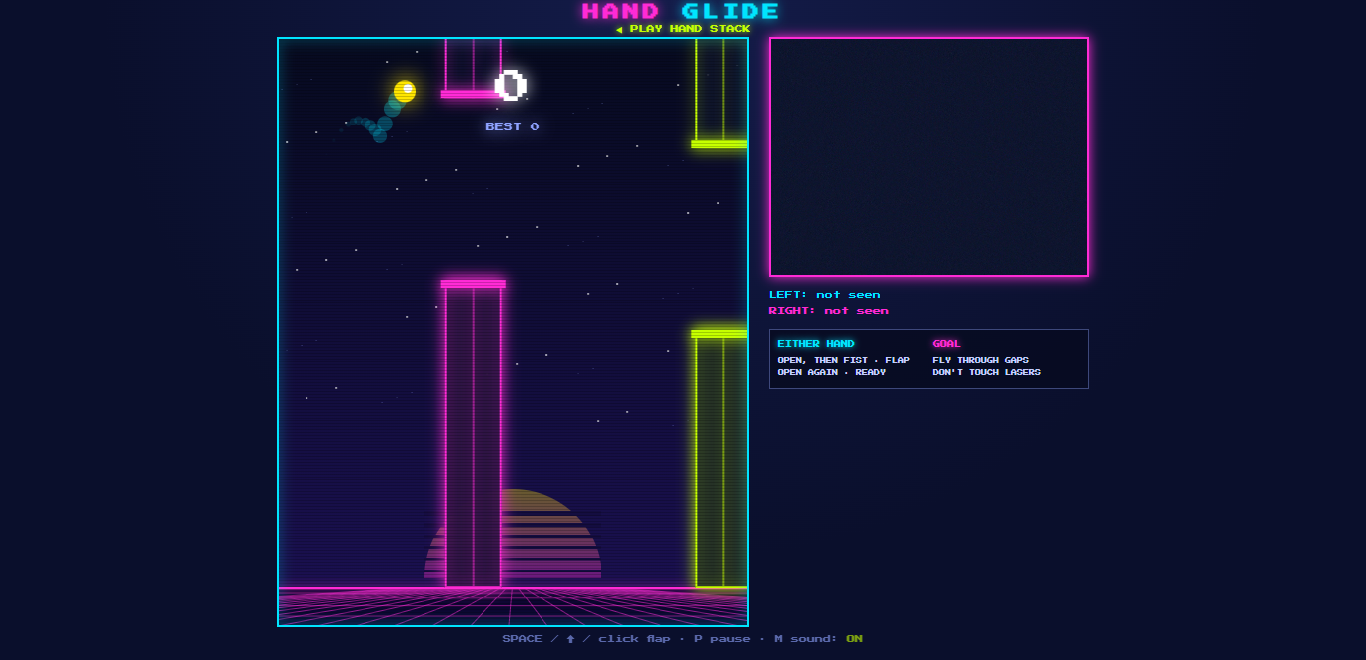
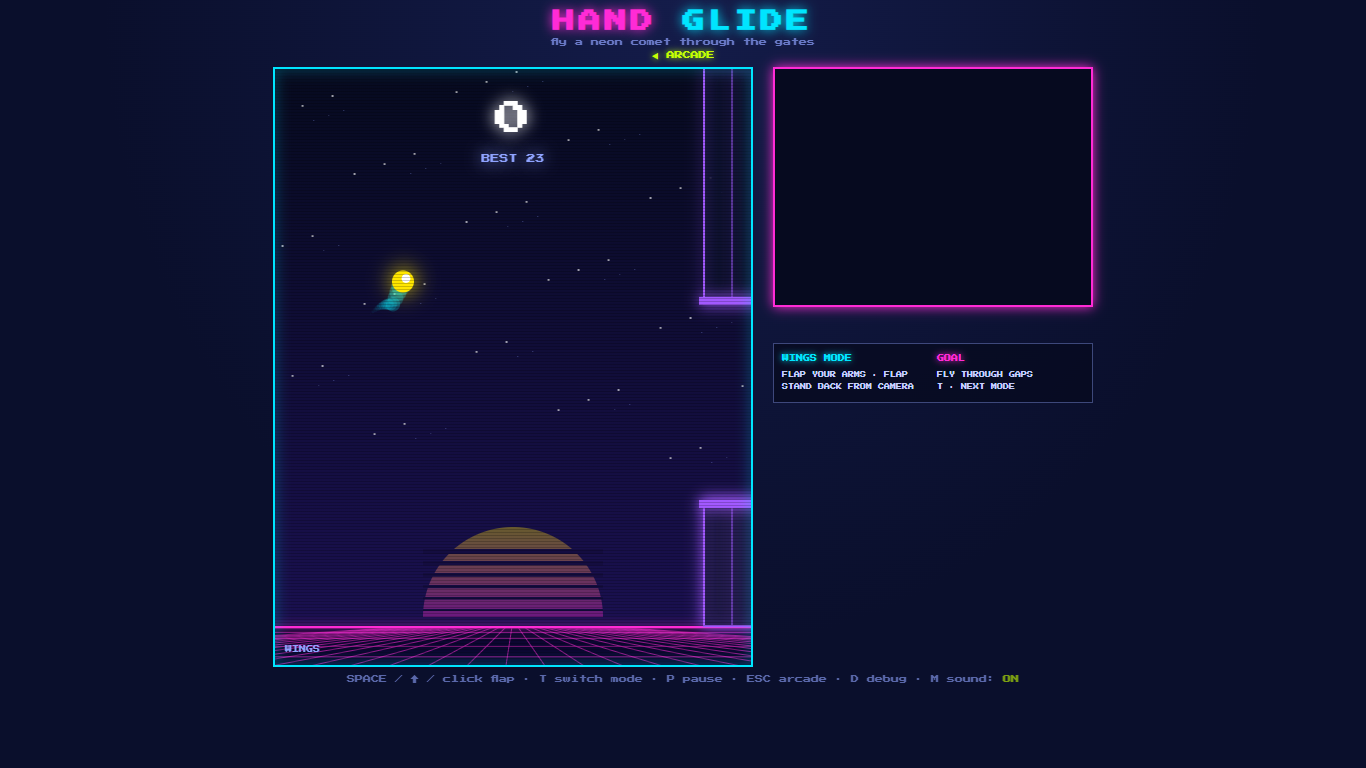
README: rewrite as a Hand Arcade overview of three equal games
Lobby, Hand Stack, Hand Glide and Hand Whack each get their own section
with screenshots, a gameplay GIF or video, controls and scoring. New
lobby GIF, fresh Stack/Glide screenshots, and Whack screenshots + GIF.
Architecture table, gesture notes and tuning cover all three games.

diff --git a/README.md b/README.md
@@ -1,75 +1,54 @@
 <div align="center">
 
-# ✋ HAND STACK ✋
+# 🕹 HAND ARCADE 🕹
 
-**A neon falling-block puzzle you play with your bare hands.**
+**A neon arcade where your hands are the controller.**
 
-*An arcade idea from the 1980s, rebuilt for 2026 with real-time hand tracking in the browser.*
+*Three retro games, one webcam, no controllers. Hand tracking runs live in the browser.*
 
 ![JavaScript](https://img.shields.io/badge/JavaScript-vanilla-f7df1e?style=flat-square&logo=javascript&logoColor=black)
 ![Vite](https://img.shields.io/badge/Vite-8-646cff?style=flat-square&logo=vite&logoColor=white)
-![MediaPipe](https://img.shields.io/badge/MediaPipe-Hand_Landmarker-0097a7?style=flat-square)
+![MediaPipe](https://img.shields.io/badge/MediaPipe-Hands_+_Pose-0097a7?style=flat-square)
 ![Web Audio](https://img.shields.io/badge/Web_Audio-synthesised-ff2bd6?style=flat-square)
 ![No frameworks](https://img.shields.io/badge/frameworks-none-00e5ff?style=flat-square)
 
 **Retro Remix track · KCL Tech First Year Hack · built with JetBrains Air**
 
-🕹 **Now part of HAND ARCADE:** open the site and you walk into a neon arcade with two cabinets, **Hand Stack** and **[Hand Glide](#-bonus-game-hand-glide)**. Point at a cabinet and hold a fist to play (or click, or use ←/→ and Enter). Esc in either game takes you back to the arcade.
+<img src="docs/media/arcade-lobby.gif" alt="The Hand Arcade lobby: three neon cabinets (Hand Stack, Hand Glide, Hand Whack) with live attract-mode screens; one is chosen and the view zooms into it" width="800">
 
-<img src="docs/media/hands-demo.gif" alt="A player controlling Hand Stack with both hands: cyan skeleton on the left hand picks the column band, pink skeleton on the right hand acts" width="720">
-
-*Real hand-tracking gameplay: the left hand (cyan) picks the column, the right hand (pink) rotates, holds and slams.*
-
-[▶ Watch the full hand-tracking clip (40 s)](docs/media/human_game.mp4) · [▶ Hand Glide demo](docs/media/glide_demo.mp4) · [Quick start](#-quick-start) · [Controls](#-controls) · [Bonus: Hand Glide](#-bonus-game-hand-glide) · [How it works](#-how-it-works)
+[Quick start](#-quick-start) · [The arcade](#-the-arcade) · [🧱 Hand Stack](#-hand-stack) · [🌠 Hand Glide](#-hand-glide) · [🔨 Hand Whack](#-hand-whack) · [How it works](#-how-it-works)
 
 </div>
 
 ---
 
-## 🕹 What is it?
+## ✋ What is it?
 
-Hand Stack is a falling-block puzzle in its own neon arcade style, but there's **no controller**. Your webcam watches both hands:
+Hand Arcade is a virtual arcade room with three cabinets. Each one is a complete game, and each is played with your body in front of a webcam rather than a keyboard or controller:
 
-- your **left hand** steers the falling piece across the board and drops it faster
-- your **right hand** rotates it, slams it down and puts it on hold
+| | Game | Genre | You play it by… |
+|---|---|---|---|
+| 🧱 | **[Hand Stack](#-hand-stack)** | Falling-block puzzle | steering with your left hand, rotating, holding and slamming with your right |
+| 🌠 | **[Hand Glide](#-hand-glide)** | Neon flyer | flapping your arms like wings (or squeezing / steering with a hand) |
+| 🔨 | **[Hand Whack](#-hand-whack)** | Whack-a-mole | aiming with your palms and squeezing to bring the hammer down |
 
-Hand tracking runs **entirely in the browser** with Google's MediaPipe. Nothing gets installed, and no video ever leaves your machine. If there's no camera, the whole game still plays on the keyboard.
+Everything runs **in the browser**. Nothing is installed, and no video ever leaves your machine. Every game also works with the keyboard and mouse if there's no camera.
 
-### Features
+### Shared features
 
-- 🖐 **Two-handed gesture control:** six gestures across two hands, with live skeleton overlays (cyan = move hand, pink = action hand)
-- 🎯 **Column bands:** ten numbered bands on the camera view map your palm straight onto the board, with hysteresis so the piece doesn't jitter between columns
-- 🔁 **Self-calibrating wrist twist:** whatever angle you hold your hand at becomes "neutral", with a live dial gauge
-- 👌 **Robust pinch detection** that can't be confused with a fist
-- 🧩 **Proper puzzle rules:** 7-bag randomiser, wall kicks in both directions, ghost piece, hold, 3-piece preview, levels and speed-up
-- 🎵 **Synthesised audio:** an original chiptune loop that speeds up each level, plus sound effects, all generated with the Web Audio API (no audio files)
-- 🛠 **Live debug panel (D):** every gesture value next to its threshold, plus the tracker's frame rate
-- ♿ **Left-handed mode (S)** and a **full keyboard fallback**
+- 🖐 **Live skeleton overlays** on the camera view, so you can always see what the tracker sees
+- 🏠 **Hands-free navigation:** choose a game in the lobby with a fist, and use big hover buttons (**◀ ARCADE** / **PLAY ▶**) on every start, pause and game-over screen
+- 🎵 **Synthesised audio:** an original chiptune loop plus sound effects, generated with the Web Audio API (no audio files)
+- 🏆 **Best scores** saved in your browser and shown on each cabinet
+- 🛠 **Debug panel (D)** in every game: each live gesture value next to its threshold
+- ⚡ **60 fps:** hand and pose tracking run in a background Web Worker, so the games never stutter
 - 💻 Fits a 1366×768 laptop screen
-
----
-
-## 📸 Screenshots
-
-| Start screen and gesture guide | Mid-game |
-|---|---|
-| <img src="docs/media/start-screen.png" alt="Start screen with illustrated guide to the six gestures"> | <img src="docs/media/gameplay.png" alt="Gameplay: board with ghost piece and SLAM flash, hold and next previews, score panel, camera view with column bands and controls reminder"> |
-
-| Debug panel (press D) |
-|---|
-| <img src="docs/media/debug-panel.png" alt="Debug panel listing every live gesture value next to its threshold, and the tracker running on GPU at 47 fps"> |
-
-| Keyboard demo (scripted, 11 s) |
-|---|
-| <img src="docs/media/demo.gif" alt="Hand Stack keyboard gameplay: pieces fall, line clears flash SINGLE, hold and next previews update" width="720"> |
-
-> **About these captures:** the screenshots above, the keyboard demo and its [full 42 s clip](docs/media/gameplay.mp4) were recorded in headless Chrome. The game was driven by scripted **keyboard** input, and the camera was a blank synthetic feed. That's why their camera panels show no hands. The GIF at the top and the [hand-tracking clip](docs/media/human_game.mp4) are real webcam play.
 
 ---
 
 ## 🚀 Quick start
 
-You need [Node.js](https://nodejs.org/) 20+, a webcam and an internet connection. The hand-tracking model loads from a CDN.
+You need [Node.js](https://nodejs.org/) 20+, a webcam and an internet connection (the tracking models load from a CDN).
 
 ```bash
 git clone https://github.com/Neev-Dhall/KCL-Hack.git
@@ -78,18 +57,55 @@ npm install
 npm run dev
 ```
 
-Open the URL Vite prints (usually **http://localhost:5173**) in **Google Chrome** and allow camera access. That's the arcade lobby: hold a fist over the Hand Stack cabinet (or click it). Hand Stack itself is at `/stack.html` and Hand Glide at `/glide.html`. In Hand Stack, **make a fist with your right hand** or press **Enter** to start.
+Open the URL Vite prints (usually **http://localhost:5173**) in **Google Chrome** and allow camera access. You'll land in the arcade.
 
-> 🔊 Sound and music start after your first click or key press, because browsers block audio until then.
-> 📷 If the camera is blocked, the game says so and carries on with the keyboard.
+To build a static site: `npm run build` writes everything to `dist/`, which works from any folder (for example GitHub Pages).
+
+> 📷 If the camera is blocked, each page says so and carries on with keyboard and mouse.
 
 ---
 
-## 🎮 Controls
+## 🏠 The arcade
 
-Left hand = **MOVE** hand (cyan). Right hand = **ACTION** hand (pink). Press **S** to swap them for left-handers.
+<img src="docs/media/arcade-lobby.png" alt="Hand Arcade lobby with three cabinets on a neon floor grid, each showing its best score" width="800">
 
-### Hands
+The lobby is a dark arcade room with a flickering marquee and three cabinets. Each cabinet screen loops a little attract-mode demo of its game and shows your best score.
+
+| To… | Hands | Keyboard / mouse |
+|---|---|---|
+| Choose a cabinet | Move your palm; a glowing cursor follows it | ← / → or hover |
+| Play it | Make a fist and hold it until the ring fills (0.6 s) | Enter or click |
+| Leave a game | Hover a hand over **◀ ARCADE** for 1 s on a menu screen | Esc |
+| Start / retry / resume | Hover a hand over **PLAY ▶** for 1 s | Each game's start key |
+
+Choosing a cabinet zooms the room into its screen and fades into the game.
+
+---
+
+## 🧱 Hand Stack
+
+**A falling-block puzzle you play with both hands.** Your **left hand** (cyan) steers the falling piece across the board and drops it faster. Your **right hand** (pink) rotates it, slams it down and puts it on hold.
+
+<img src="docs/media/hands-demo.gif" alt="A player controlling Hand Stack with both hands: cyan skeleton on the left hand picks the column band, pink skeleton on the right hand acts" width="720">
+
+**[▶ Watch the full hand-tracking clip (40 s)](docs/media/human_game.mp4)**
+
+| Start screen and gesture guide | Mid-game |
+|---|---|
+| <img src="docs/media/stack-start.png" alt="Hand Stack start screen with an illustrated guide to the six gestures"> | <img src="docs/media/stack-play.png" alt="Hand Stack mid-game: board, hold and next previews, score panel and controls reminder"> |
+
+<img src="docs/media/stack-demo.gif" alt="Hand Stack gameplay: pieces fall, rotate and lock, with hold and next previews updating" width="640">
+
+### Features
+
+- 🎯 **Column bands:** ten numbered bands on the camera view map your palm straight onto the board, with hysteresis so the piece doesn't jitter between columns
+- 🔁 **Self-calibrating wrist twist:** whatever angle you hold your hand at becomes "neutral", with a live dial gauge
+- 👌 **Robust pinch detection** that can't be confused with a fist
+- 🧩 **Proper puzzle rules:** 7-bag randomiser, wall kicks in both directions, ghost piece, hold, 3-piece preview, levels and speed-up
+- 🎵 The chiptune speeds up every level
+- ♿ **Left-handed mode (S)** swaps the hand roles
+
+### Controls
 
 | Hand | Gesture | Action |
 |---|---|---|
@@ -100,16 +116,14 @@ Left hand = **MOVE** hand (cyan). Right hand = **ACTION** hand (pink). Press **S
 | 👌 Right | Tap thumb and index together | **Hold** the piece |
 | ✊ Right | Close into a fist | **Slam** (hard drop); also starts the game |
 
-### Keyboard
-
 | Key | Action | Key | Action |
 |---|---|---|---|
 | ← → | Move | P | Pause |
 | ↓ | Soft drop | Enter | Start / restart |
 | ↑ or X | Rotate clockwise | S | Swap hand roles |
 | Z | Rotate anticlockwise | D | Debug panel |
-| Space | Hard drop | M | Mute (effects and music) |
-| C | Hold | | |
+| Space | Hard drop | M | Mute |
+| C | Hold | Esc | Back to the arcade |
 
 ### Scoring
 
@@ -123,26 +137,71 @@ Left hand = **MOVE** hand (cyan). Right hand = **ACTION** hand (pink). Press **S
 
 You go up a level every 10 lines. Gravity starts at 800 ms per row and gets 70 ms faster each level, down to a minimum of 80 ms.
 
+<details>
+<summary>🛠 Debug panel (press D)</summary>
+
+<img src="docs/media/debug-panel.png" alt="Debug panel listing every live gesture value next to its threshold, and the tracker running on GPU">
+
+</details>
+
 ---
 
-## 🌠 Bonus game: Hand Glide
+## 🌠 Hand Glide
 
-A second arcade game using the same hand tracking. Steer a glowing comet through gaps in neon laser gates over a synthwave grid. It has three control modes (**T** cycles):
-
-- **WINGS mode (default): flap your arms like wings.** Stand back so your shoulders and hands are in view. Each downstroke flaps the comet, and raising your arms gets the next flap ready. This mode uses MediaPipe's **body pose** tracker (shoulders, elbows, wrists), which copes with fast arm movement much better than hand tracking.
-- **SQUEEZE mode:** squeeze either hand to flap. Quick half-squeezes count.
-- **STEER mode:** the comet follows your palm's height. Raise your hand to climb and lower it to dive. If your hand leaves the camera, gravity takes over.
-
-| Start | In flight |
-|---|---|
-| <img src="docs/media/glide-start.png" alt="Hand Glide start screen: comet over a striped synthwave sun, MAKE A FIST TO FLAP"> | <img src="docs/media/glide-play.png" alt="Hand Glide in flight: comet with trail between neon laser gates"> |
+**Fly a glowing comet through neon laser gates over a synthwave grid.** By default you play it with your whole body: stand back and **flap your arms like wings**.
 
 **[▶ Watch the Hand Glide demo](docs/media/glide_demo.mp4)**: real webcam play, flying the comet through the gates.
 
-- Open it from the **Hand Glide** cabinet in the arcade lobby, or go to `/glide.html`. On the start, pause and game-over screens, hover a hand over **◀ ARCADE** or **PLAY ▶** for a second to choose.
-- Keyboard and mouse work too: **Space**, **↑** or **click** to flap, **T** to switch mode, **P** to pause, **D** for the debug panel, **M** to mute.
-- The gaps get narrower and the scroll speed rises as your score climbs. From 10 gates, some gates **slide up and down**. Every 10 gates plays a jingle and speeds up the music.
-- Crashes shake the screen and burst into sparks. Each mode keeps its own best score in your browser.
+| Start | In flight |
+|---|---|
+| <img src="docs/media/glide-start.png" alt="Hand Glide start screen: comet over a striped synthwave sun, with ARCADE and PLAY hover buttons either side"> | <img src="docs/media/glide-play.png" alt="Hand Glide in flight: comet with trail approaching a pair of neon gates"> |
+
+### Three control modes (T cycles)
+
+- **WINGS (default): flap your arms.** Keep your shoulders and hands in view. Each downstroke flaps the comet, and raising your arms readies the next flap. This mode uses MediaPipe's **body pose** tracker (shoulders, elbows, wrists), which copes with fast arm movement much better than hand tracking.
+- **SQUEEZE:** squeeze either hand to flap. Quick half-squeezes count.
+- **STEER:** the comet follows your palm's height. Raise your hand to climb and lower it to dive. If your hand leaves the camera, gravity takes over.
+
+### How it plays
+
+- The gaps get narrower and the scroll speed rises as your score climbs. From 10 gates, some gates **slide up and down**.
+- Every 10 gates plays a jingle and speeds up the music.
+- Crashes shake the screen and burst into sparks. Each mode keeps its own best score.
+- Keyboard and mouse: **Space**, **↑** or **click** to flap, **T** to switch mode, **P** to pause, **D** debug, **M** mute, **Esc** back to the arcade.
+
+---
+
+## 🔨 Hand Whack
+
+**Bop the neon moles before they duck back down.** Each of your hands is a hammer: move your palm to aim at one of nine holes, then **squeeze your hand** to whack. Two hands means two hammers.
+
+<img src="docs/media/whack-demo.gif" alt="Hand Whack gameplay: two hammers (cyan and pink) aim at the 3×3 grid of holes, moles pop up and get bopped with score pop-ups, the camera view shows the aiming grid" width="600">
+
+| Start | Mid-game | Time's up |
+|---|---|---|
+| <img src="docs/media/whack-start.png" alt="Hand Whack start screen explaining aim and squeeze controls"> | <img src="docs/media/whack-play.png" alt="Hand Whack mid-game: a mole pops out while both hammers aim at holes"> | <img src="docs/media/whack-over.png" alt="Hand Whack results screen with score, best and hit rate"> |
+
+### How it plays
+
+- **60-second rounds.** Moles pop up faster, stay up for less time and appear in greater numbers as the clock runs down.
+- 👑 **Golden moles** are quick and worth **+50**.
+- 💣 **Bombs** appear after 10 seconds. Whack one and you lose **5 seconds**.
+- 🔥 **Combos:** every 5 hits in a row raises your multiplier, up to **×5**. A miss, a whiff or a mole that escapes resets it.
+- The camera view shows a 3×3 aiming grid, so you can see which hole each hand is pointing at. The aimed hole glows in that hammer's colour.
+
+### Controls
+
+| Hand | Gesture | Action |
+|---|---|---|
+| ✋ Either | Move your palm | Aim the hammer at a hole |
+| ✊ Either | Squeeze (a quick fist), then open again | Whack; also starts the game |
+
+| Key | Action | Key | Action |
+|---|---|---|---|
+| 1–9 | Whack a hole (top row = 1 2 3) | P | Pause |
+| Numpad | Whack a hole (numpad layout) | D | Debug panel |
+| Click | Whack the nearest hole | M | Mute |
+| Space / Enter | Start / retry | Esc | Back to the arcade |
 
 ---
 
@@ -150,55 +209,65 @@ A second arcade game using the same hand tracking. Steer a glowing comet through
 
 ```mermaid
 flowchart LR
-    CAM[📷 Webcam] --> MP["MediaPipe HandLandmarker<br/>21 landmarks × 2 hands<br/>(GPU, CPU fallback)"]
-    MP --> ROLES["Assign roles<br/>left on screen = MOVE<br/>right on screen = ACTION"]
-    ROLES --> MEAS["Measure in palm lengths<br/>finger extension · curl<br/>pinch gap · knuckle angle"]
-    MEAS --> GEST["Gesture state machines<br/>hysteresis · arming<br/>cooldowns · motion guard"]
-    GEST -->|"moveTo · rotate · hold<br/>hardDrop · setSoftDrop"| GAME["game.js<br/>rules + canvas renderer"]
-    KEYS[⌨ Keyboard] --> GAME
-    GAME -->|events| SND["sound.js<br/>SFX + chiptune"]
+    CAM[📷 Webcam] --> W["Web Worker<br/>MediaPipe Hand + Pose<br/>(GPU, CPU fallback)"]
+    W --> MEAS["Measure in palm lengths<br/>curl · pinch gap · twist angle<br/>arm height"]
+    MEAS --> GEST["Gesture detectors<br/>hysteresis · arming<br/>cooldowns · motion guard"]
+    GEST --> STACK["🧱 Hand Stack"]
+    GEST --> GLIDE["🌠 Hand Glide"]
+    GEST --> WHACK["🔨 Hand Whack"]
+    GEST --> MENU["🏠 Lobby + hand menus"]
+    KEYS[⌨ Keyboard / mouse] --> STACK & GLIDE & WHACK & MENU
+    STACK & GLIDE & WHACK --> SND["sound.js<br/>SFX + chiptune"]
 ```
 
-The code is split so each file has one job, and the hand code can only reach the game through its public API:
+Each page is its own Vite entry, and the games share the tracking, sound and menu code:
 
 | File | Job |
 |---|---|
-| [`src/game.js`](src/game.js) | Game rules and drawing only: board, 7-bag randomiser, wall kicks, scoring, levels, the neon canvas renderer and CRT scanlines. It knows nothing about cameras. |
-| [`src/hands.js`](src/hands.js) | Camera, MediaPipe hand tracking and gesture detection. It only calls the API that `game.js` exports. **Every gesture threshold is in one commented block at the top of the file.** |
+| [`index.html`](index.html) + [`src/arcade.js`](src/arcade.js) + [`src/arcade.css`](src/arcade.css) | The lobby: CSS cabinets, attract-mode demos, hand cursor and fist-to-select, zoom transition. |
+| [`stack.html`](stack.html) + [`src/main.js`](src/main.js) | Hand Stack page: keyboard, sound, music, screens and the game loop. |
+| [`src/game.js`](src/game.js) | Hand Stack rules and drawing only: board, 7-bag randomiser, wall kicks, scoring, levels and the neon renderer. It knows nothing about cameras. |
+| [`src/hands.js`](src/hands.js) | Hand Stack's gesture detection. It only calls the API that `game.js` exports. **Every gesture threshold is in one commented block at the top.** |
+| [`glide.html`](glide.html) + [`src/glide.js`](src/glide.js) | Hand Glide: physics, gates, drawing and the three control modes, with all tuning numbers at the top. |
+| [`whack.html`](whack.html) + [`src/whack.js`](src/whack.js) | Hand Whack: moles, hammers, combos and the squeeze detector, with all tuning numbers at the top. |
+| [`src/handmenu.js`](src/handmenu.js) | The hover-to-select **◀ ARCADE / PLAY ▶** buttons used on every game's menu screens. |
+| [`src/tracker.js`](src/tracker.js) | Shared webcam + MediaPipe setup: hand tracking, plus body-pose tracking loaded on demand. |
+| [`src/vision.js`](src/vision.js) + [`src/vision.worker.js`](src/vision.worker.js) | Runs MediaPipe in a **Web Worker**. Camera frames are handed over without copying, and frames that arrive while the worker is busy are skipped, so tracking never freezes a game or builds up lag. |
 | [`src/sound.js`](src/sound.js) | Sound effects and an original 4-bar chiptune loop (Am–F–C–G), played by a small step sequencer on the Web Audio clock. |
-| [`src/main.js`](src/main.js) | Wires it all together: keyboard, sound, music, screens and the game loop. |
-| [`src/glide.js`](src/glide.js) + [`glide.html`](glide.html) | Hand Glide: physics, gates, drawing and fist-to-flap, with all tuning numbers at the top. |
-| [`src/vision.js`](src/vision.js) + [`src/vision.worker.js`](src/vision.worker.js) | Runs MediaPipe in a **Web Worker** (a background thread) for both games. Camera frames are sent over as ImageBitmaps, and frames that arrive while the worker is busy are skipped, so tracking never freezes the game or builds up lag. |
-| [`src/tracker.js`](src/tracker.js) | Shared webcam + MediaPipe setup for Hand Glide: hand tracking, plus body-pose tracking for wing flapping (loaded on demand). |
-| [`vite.config.js`](vite.config.js) | Builds both pages. |
+| [`vite.config.js`](vite.config.js) | Builds all four pages. |
 
 ### Gesture tricks
 
-- **Scale-free:** every distance is measured in *palm lengths* (wrist to the middle-finger knuckle). Gestures work the same close to the camera or far away.
+- **Scale-free:** every distance is measured in *palm lengths* (wrist to the middle-finger knuckle), so gestures work the same close to the camera or far away.
 - **Hysteresis everywhere:** columns, fists and pinches each have separate "on" and "off" thresholds, so nothing flickers at the edge.
-- **Self-calibrating twist:** the angle you first raise your hand at becomes neutral, and neutral slowly follows your hand while it rests. A 10° turn left rotates once. You come back to centre to re-arm, and turning right never triggers anything, so wobbling back can't double-rotate.
-- **Pinch vs fist:** a pinch is an "OK sign": thumb and index touching while the other three fingers stay straight. It has to *start* from an open thumb and hold for 2 frames. A fist curls those fingers, so closing or opening a fist can never count as a pinch.
-- **Never blocks the game:** hand and pose tracking run in a background Web Worker. Both games hold a steady 60 fps while tracking runs at the camera's ~30 fps.
-- **Motion guard:** after a slam or hold, the action hand is ignored for 600 ms. Twists don't count while the hand is moving fast or mid-pinch.
+- **Squeeze = a drop, not a threshold:** Hand Glide and Hand Whack detect a squeeze as your finger curl *dropping* from its recent high, so quick half-squeezes count, and the hand must open again before the next one.
+- **Aim lock:** closing your hand shifts your palm slightly, so the lobby cursor and Whack's hammer hold their target while the fist is forming.
+- **Self-calibrating twist:** in Hand Stack, the angle you first raise your hand at becomes neutral, and neutral slowly follows your hand while it rests.
+- **Pinch vs fist:** a pinch is an "OK sign" that has to *start* from an open thumb and hold for 2 frames, so closing or opening a fist never counts as a pinch.
+- **Menus can't misfire:** a hover button won't fire if a hand was already resting on it when the menu appeared. You have to move off and come back.
 
 ### Tuning
 
-All thresholds live at the top of [`src/hands.js`](src/hands.js). Press **D** in game to see each live value next to its threshold, so you can tune a gesture by watching the numbers.
+Every threshold lives in a commented block at the top of its file. Press **D** in any game to watch each live value next to its threshold.
 
 | Gesture | Key values |
 |---|---|
-| Column bands | 5–47% of frame width · switch 0.2 of a band past the edge |
-| Fist (soft drop / slam) | curl < 1.05 on · > 1.4 off / re-arm |
-| Pinch | gap < 0.45 · arm > 0.6 · other fingers avg > 1.15 · 2 frames |
-| Twist | 10° left fires · ±4° re-arms · EMA α 0.5 · `TWIST_SIGN` flips direction |
-| Motion guard | > 0.5 palm lengths in 250 ms · 600 ms cooldown |
+| Stack column bands | 5–47% of frame width · switch 0.2 of a band past the edge |
+| Stack fist (soft drop / slam) | curl < 1.05 on · > 1.4 off / re-arm |
+| Stack pinch | gap < 0.45 · arm > 0.6 · other fingers avg > 1.15 · 2 frames |
+| Stack twist | 10° left fires · ±4° re-arms · EMA α 0.5 |
+| Glide wings | arms drop 0.6 shoulder-widths → flap · rise 0.3 → ready |
+| Glide / Whack squeeze | curl drops 0.35 → fire · rises 0.2 → ready |
+| Whack aiming box | 18–82% of frame width · 20–80% of height |
+| Lobby fist | curl < 1.15 held 0.6 s · open > 1.35 first |
+| Hand menu | 1 s hover |
 
 ---
 
 ## 🧰 Tech
 
 - **Plain JavaScript, HTML canvas and CSS**, served with **Vite**. No frameworks.
-- **[MediaPipe Tasks Vision](https://ai.google.dev/edge/mediapipe/solutions/vision/hand_landmarker)** `HandLandmarker` (`float16` model, `VIDEO` mode, 2 hands), loaded from jsDelivr.
+- **[MediaPipe Tasks Vision](https://ai.google.dev/edge/mediapipe/solutions/vision/hand_landmarker)**: `HandLandmarker` (2 hands) and `PoseLandmarker` (lite), in `VIDEO` mode inside a Web Worker, loaded from jsDelivr.
 - **Web Audio API** for every sound and the music.
 - **[Press Start 2P](https://fonts.google.com/specimen/Press+Start+2P)** from Google Fonts.
 
